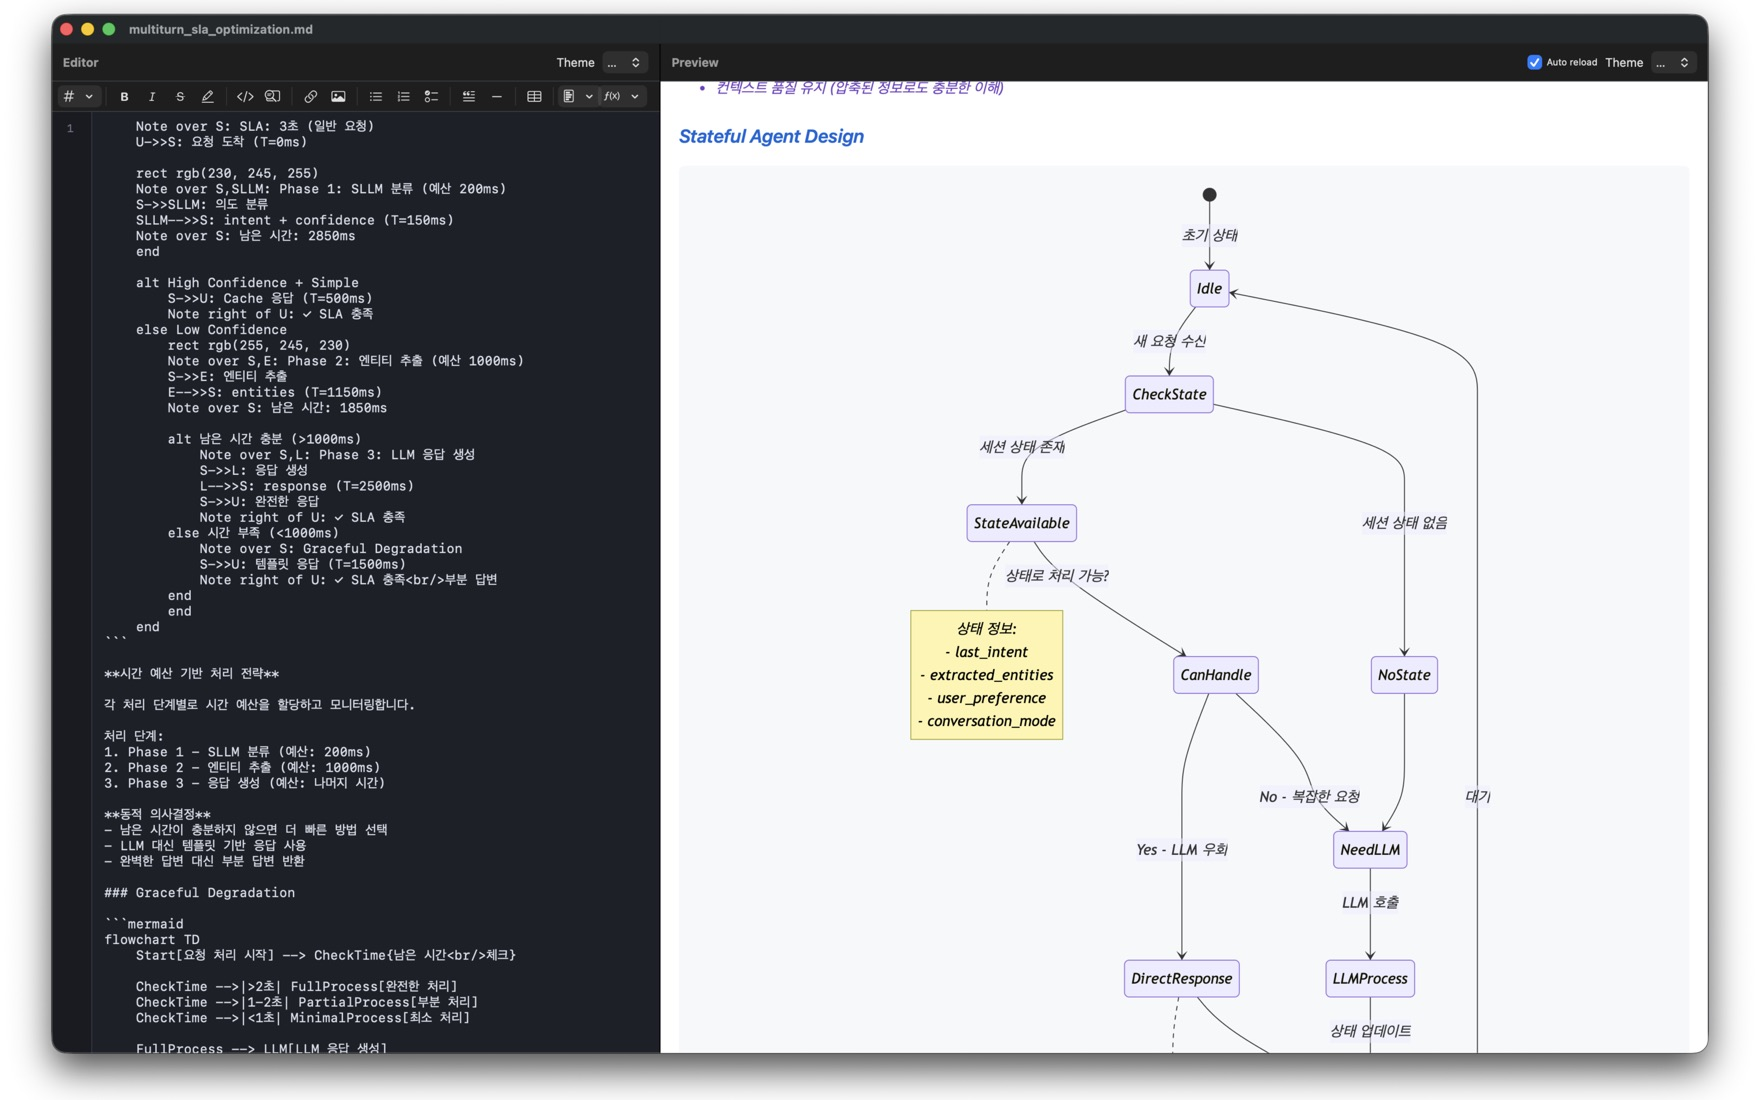
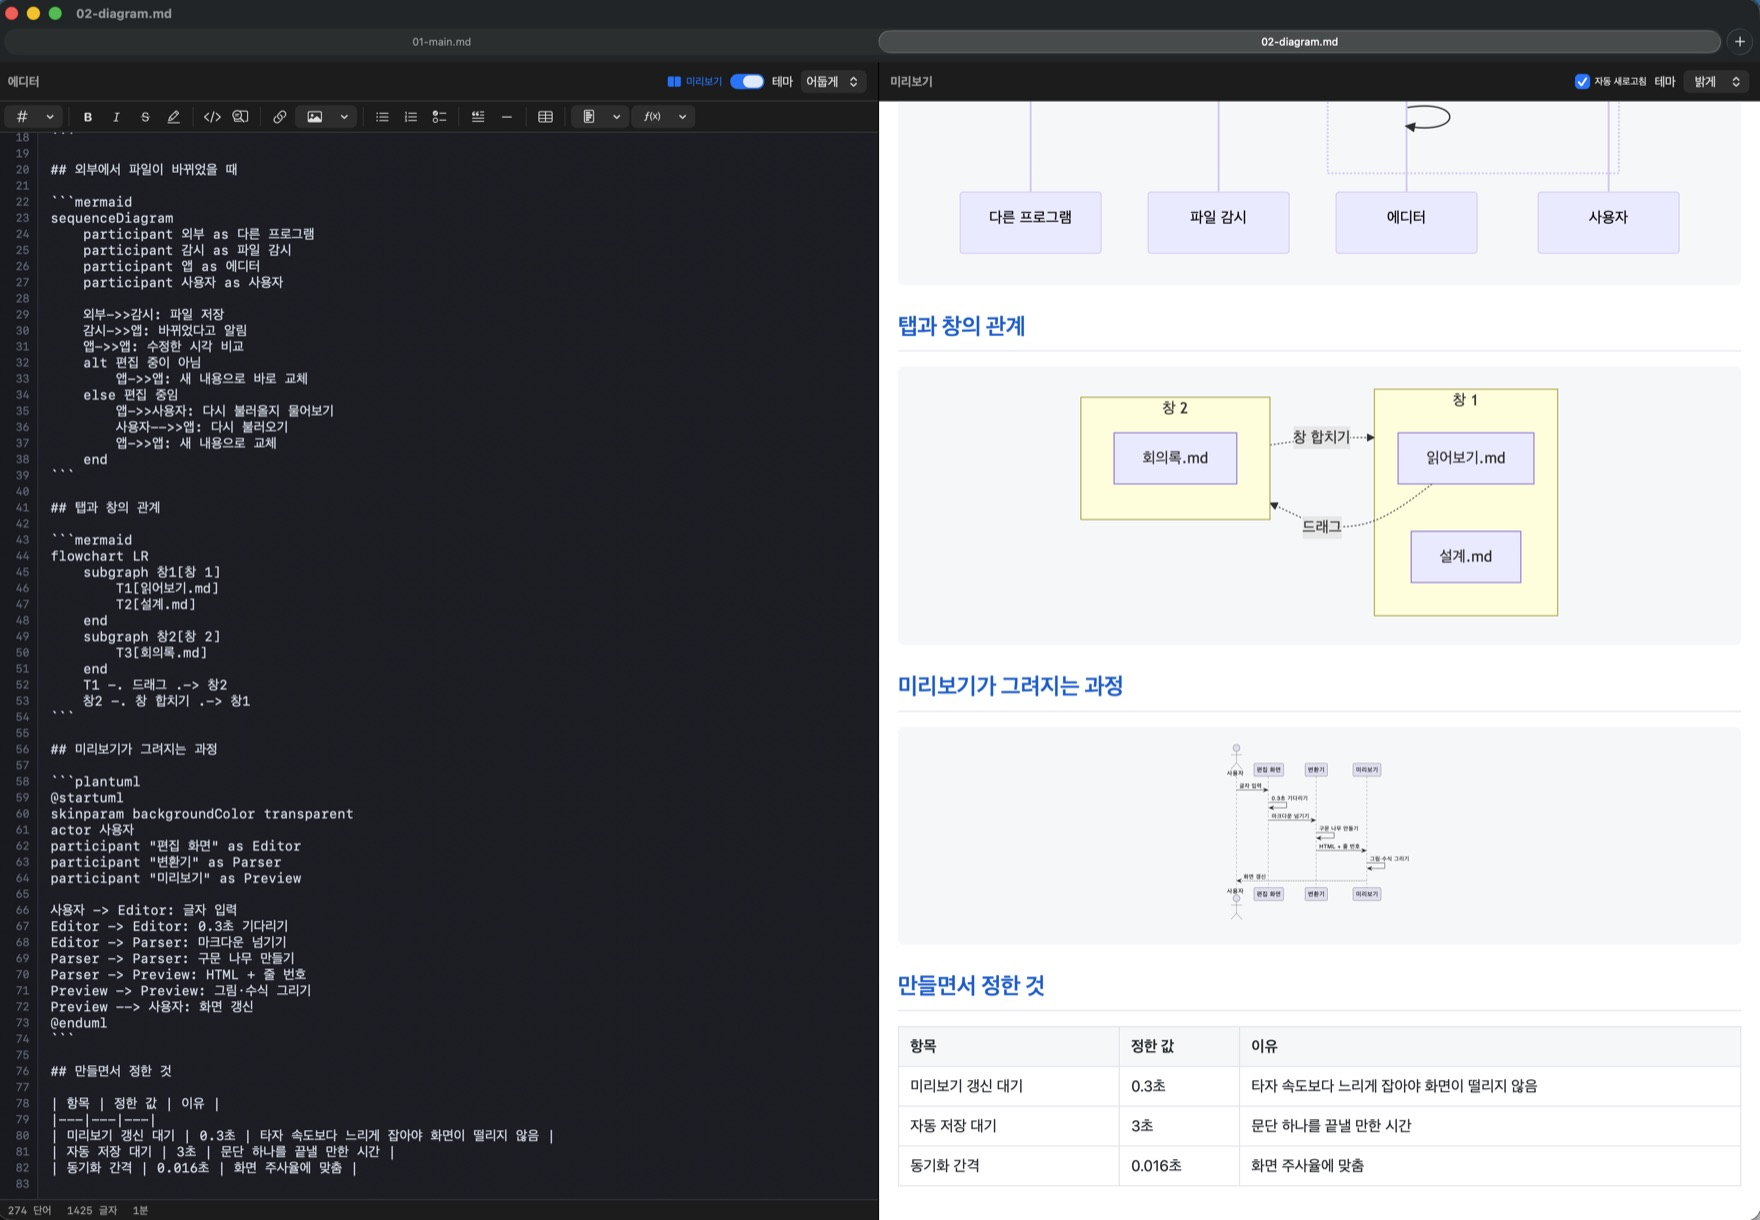
[Docs] 스크린샷 샘플 문서 추가 + 랜딩 화면 사진 교체
- samples/: 스크린샷용 마크다운 3종(본문·다이어그램·수식)과 원본 캡처 3장
- 랜딩 화면 사진을 새 캡처로 교체 (1760x1220, 원본 3714x2576 비율 유지)
- 이미지 width/height 속성을 실제 비율에 맞춰 갱신
- 바뀐 화면에 맞게 대체 텍스트와 설명 문구 수정

diff --git a/worker/src/content.ts b/worker/src/content.ts
@@ -111,7 +111,7 @@ export const KO: Copy = {
 	badgeBig: "App Store",
 	heroMeta: "무료 · macOS 13(Ventura) 이상 · Apple Silicon과 Intel 모두 지원",
 	heroShotAlt:
-		"MarkChartEditor 화면: 왼쪽 마크다운 편집 화면과 오른쪽 미리보기에 Mermaid 순서도, PlantUML 다이어그램, 표, 체크리스트가 그려진 모습",
+		"MarkChartEditor 화면: 왼쪽 어두운 편집 화면과 오른쪽 밝은 미리보기에 제목, 체크리스트, Swift 코드 블록이 나란히 보이는 모습",
 
 	featBadge: "core features",
 	featTitle: "글 쓰는 흐름을 끊지 않습니다",
@@ -155,15 +155,15 @@ export const KO: Copy = {
 	shots: [
 		{
 			src: "/assets/shot-diagram.jpg",
-			alt: "왼쪽 편집 화면의 Mermaid 코드가 오른쪽 미리보기에서 상태 흐름도로 그려진 모습",
+			alt: "왼쪽 편집 화면의 Mermaid·PlantUML 코드가 오른쪽 미리보기에서 순서도와 시퀀스 다이어그램으로 그려진 모습",
 			title: "쓰면 바로 그림이 됩니다",
 			body: "코드 블록에 mermaid나 plantuml이라고 적으면 미리보기에서 그림으로 바뀝니다. 한글 라벨도 그대로 나옵니다.",
 		},
 		{
 			src: "/assets/shot-tabs.jpg",
-			alt: "여러 창을 겹쳐 띄우고 밝은 테마와 어두운 테마를 함께 쓰는 모습",
+			alt: "문서 세 개를 탭으로 열어 둔 창에서 KaTeX 수식과 숫자 표가 미리보기에 그려진 모습",
 			title: "여러 문서를 나란히",
-			body: "탭으로 모아 두거나 창을 따로 띄워 비교합니다. 마지막에 맞춰 둔 창 크기도 기억합니다.",
+			body: "탭으로 모아 두고 오가며 봅니다. KaTeX 수식과 표도 미리보기에서 그대로 그려집니다.",
 		},
 	],
 
@@ -309,7 +309,7 @@ export const EN: Copy = {
 	badgeBig: "App Store",
 	heroMeta: "Free · macOS 13 (Ventura) or later · Apple Silicon and Intel",
 	heroShotAlt:
-		"MarkChartEditor window showing markdown source on the left and a live preview with a Mermaid flowchart, a PlantUML diagram, a table, and a checklist on the right",
+		"MarkChartEditor window with the dark editor on the left and a light live preview on the right showing headings, a checklist, and a Swift code block",
 
 	featBadge: "core features",
 	featTitle: "Nothing interrupts the writing",
@@ -353,15 +353,15 @@ export const EN: Copy = {
 	shots: [
 		{
 			src: "/assets/shot-diagram.jpg",
-			alt: "Mermaid source on the left rendered as a state flowchart in the preview on the right",
+			alt: "Mermaid and PlantUML source on the left rendered as flowcharts and sequence diagrams in the preview on the right",
 			title: "Type it, see it drawn",
 			body: "Mark a code block as mermaid or plantuml and the preview turns it into a diagram, non-Latin labels included.",
 		},
 		{
 			src: "/assets/shot-tabs.jpg",
-			alt: "Several editor windows layered, one in the light theme and one in the dark theme",
+			alt: "One window with three documents open as tabs, the preview showing KaTeX formulas and a numeric table",
 			title: "Several documents side by side",
-			body: "Keep them in tabs or float separate windows to compare. The app also remembers the window size you last set.",
+			body: "Keep them in tabs and switch as you go. KaTeX formulas and tables render in the preview too.",
 		},
 	],
 

diff --git a/worker/src/render.ts b/worker/src/render.ts
@@ -187,7 +187,7 @@ export function renderLanding(lang: Lang): string {
     ${appStoreBadge(c)}
     <div class="hero-meta">${esc(c.heroMeta)}</div>
     <div class="hero-shot">
-      <img src="/assets/shot-main.jpg" width="1760" height="1142"
+      <img src="/assets/shot-main.jpg" width="1760" height="1220"
            alt="${esc(c.heroShotAlt)}" fetchpriority="high">
     </div>
   </div>
@@ -225,7 +225,7 @@ export function renderLanding(lang: Lang): string {
       ${c.shots
 				.map(
 					(s) => `<figure class="shot">
-        <img src="${s.src}" loading="lazy" width="1760" height="1100" alt="${esc(s.alt)}">
+        <img src="${s.src}" loading="lazy" width="1760" height="1220" alt="${esc(s.alt)}">
         <figcaption class="cap"><h3>${esc(s.title)}</h3><p>${esc(s.body)}</p></figcaption>
       </figure>`,
 				)

diff --git a/samples/01-main.md b/samples/01-main.md
@@ -1,0 +1,81 @@
+# 스크롤 동기화 설계 노트
+
+> 편집 화면과 미리보기가 **같은 줄**을 보게 만드는 것이 목표입니다.
+> 퍼센트가 아니라 소스 줄을 기준으로 맞춥니다.
+
+문서가 길어질수록 "지금 쓰고 있는 문단이 오른쪽 어디쯤인지" 감이 사라집니다.
+비율로 맞추면 그림 하나만 들어가도 두 화면이 어긋나기 시작합니다.
+그래서 줄 번호를 기준점으로 삼았습니다.
+
+## 무엇을 고쳤나
+
+- 미리보기 블록마다 원본 줄 번호를 심어 둡니다
+- 편집 화면이 움직이면 그 줄을 감싸는 두 지점 사이를 계산해 미리보기를 옮깁니다
+- 반대 방향도 같은 방식으로 되돌립니다
+- 스크롤 막대를 손으로 끌 때도 동일하게 동작합니다
+
+### 처리 순서
+
+1. 미리보기를 그릴 때 블록 요소에 줄 번호를 붙인다
+2. 그 목록을 한 번만 모아 배열로 들고 있는다
+3. 스크롤이 생기면 이진 탐색으로 앞뒤 지점을 찾는다
+4. 두 지점 사이를 비례로 나눠 최종 위치를 정한다
+
+## 남은 일
+
+- [x] 휠과 트랙패드 동기화
+- [x] 스크롤 막대 드래그 동기화
+- [x] 이미지가 늦게 불러와질 때 위치 어긋남 방지
+- [ ] 표가 가로로 넘칠 때 위치 보정
+- [ ] 접힌 코드 블록 처리
+
+## 핵심 코드
+
+두 지점 사이를 나누는 부분입니다.
+
+```swift
+func targetY(for line: Double) -> CGFloat {
+    let base = Int(floor(line))
+    let ratio = CGFloat(line - Double(base))
+
+    let top = y(ofLine: base)
+    let next = y(ofLine: base + 1)
+
+    return top + ratio * (next - top)
+}
+```
+
+미리보기 쪽은 브라우저에서 같은 계산을 합니다.
+
+```javascript
+function scrollToLine(line) {
+  const i = anchorIndex(line);
+  const prev = anchors[i];
+  const next = anchors[i + 1];
+  if (!next) return window.scrollTo(0, docTop(prev.el));
+
+  const p = (line - prev.line) / (next.line - prev.line);
+  window.scrollTo(0, docTop(prev.el) + p * (docTop(next.el) - docTop(prev.el)));
+}
+```
+
+## 측정 결과
+
+| 문서 크기 | 이전 방식 | 줄 기준 방식 | 한 번 처리에 걸린 시간 |
+|---|---|---|---|
+| 200줄 | 어긋남 없음 | 어긋남 없음 | 0.4 ms |
+| 2,000줄 | 최대 12줄 | 1줄 이내 | 0.6 ms |
+| 12,000줄 | 최대 90줄 | 1줄 이내 | 0.9 ms |
+| 그림 40장 | 최대 3화면 | 1줄 이내 | 1.1 ms |
+
+`0.016초`마다 한 번만 계산하도록 묶어서, 빠르게 굴려도 밀리지 않습니다.
+
+## 참고
+
+- [CommonMark 규격](https://spec.commonmark.org/)
+- [Apple TextKit 문서](https://developer.apple.com/documentation/uikit/textkit)
+- 관련 논의: `#124`, `#131`
+
+---
+
+*마지막 수정: 2026년 9월*

diff --git a/samples/03-math.md b/samples/03-math.md
@@ -1,0 +1,92 @@
+# 감량 속도와 필요 열량
+
+몸무게 기록에서 하루 목표 열량을 뽑는 계산을 정리했습니다.
+
+## 기초 대사량
+
+성별에 따라 계수만 다릅니다. $W$ 는 몸무게(kg), $H$ 는 키(cm), $A$ 는 나이입니다.
+
+$$
+\mathrm{BMR} = 10W + 6.25H - 5A +
+\begin{cases}
+  +5 & \text{남성} \\
+  -161 & \text{여성}
+\end{cases}
+$$
+
+여기에 활동 계수 $k$ 를 곱하면 하루 소비 열량이 됩니다.
+
+$$
+\mathrm{TDEE} = k \cdot \mathrm{BMR}, \qquad k \in [1.2,\ 1.9]
+$$
+
+## 목표 열량
+
+일주일에 $\Delta$ kg 을 줄이려면, 지방 1kg 을 약 7,700 kcal 로 보고 이렇게 잡습니다.
+
+$$
+E_{\text{목표}} = \mathrm{TDEE} - \frac{7700 \cdot \Delta}{7}
+$$
+
+안전 범위는 $\Delta \le 0.75$ 이고, 어떤 경우에도 $E_{\text{목표}} \ge 1200$ 을 지킵니다.
+
+## 흔들리는 기록 다듬기
+
+몸무게는 하루하루 출렁이므로 지수 이동 평균으로 눌러줍니다.
+
+$$
+S_t = \alpha x_t + (1-\alpha) S_{t-1}, \qquad \alpha = \frac{2}{n+1}
+$$
+
+$n = 7$ 이면 $\alpha \approx 0.25$ 입니다. 아래는 실제로 적용한 값입니다.
+
+| 날짜 | 측정값 (kg) | 평활값 (kg) | 전날 대비 |
+|---|---:|---:|---:|
+| 09-01 | 72.4 | 72.40 | — |
+| 09-02 | 73.1 | 72.58 | +0.18 |
+| 09-03 | 72.0 | 72.43 | −0.15 |
+| 09-04 | 71.8 | 72.27 | −0.16 |
+| 09-05 | 72.6 | 72.35 | +0.08 |
+| 09-06 | 71.5 | 72.14 | −0.21 |
+| 09-07 | 71.3 | 71.93 | −0.21 |
+
+측정값은 1.8kg 을 오르내렸지만 평활값은 0.47kg 만 움직였습니다.
+
+## 계산 코드
+
+```python
+def smooth(values, window=7):
+    alpha = 2 / (window + 1)
+    result, prev = [], values[0]
+    for v in values:
+        prev = alpha * v + (1 - alpha) * prev
+        result.append(round(prev, 2))
+    return result
+
+
+def target_calories(tdee, weekly_loss_kg):
+    deficit = 7700 * weekly_loss_kg / 7
+    return max(1200, round(tdee - deficit))
+```
+
+```sql
+SELECT
+    date,
+    weight_kg,
+    AVG(weight_kg) OVER (
+        ORDER BY date ROWS BETWEEN 6 PRECEDING AND CURRENT ROW
+    ) AS avg_7d
+FROM weight_log
+WHERE user_id = 42
+ORDER BY date DESC
+LIMIT 30;
+```
+
+## 확인할 것
+
+- [x] 성별·나이 계수 검증
+- [x] 최저 열량 하한 적용
+- [ ] 근육량을 따로 받는 경우의 보정식
+- [ ] 정체기 판정 기준 정하기
+
+> 참고: 이 값은 일반적인 추정치입니다. 질환이 있거나 약을 드시는 경우에는 전문의와 상의하세요.

diff --git a/samples/02-diagram.md b/samples/02-diagram.md
@@ -1,0 +1,82 @@
+# 문서 저장 흐름
+
+편집한 내용이 파일로 남기까지 어떤 길을 지나는지 그림으로 정리했습니다.
+
+## 전체 흐름
+
+```mermaid
+flowchart TD
+    A[키 입력] --> B{3초 동안 조용한가}
+    B -- 아니오 --> A
+    B -- 예 --> C[자동 저장 시작]
+    C --> D{파일 경로가 있나}
+    D -- 없음 --> E[저장 위치 묻기]
+    D -- 있음 --> F[디스크에 쓰기]
+    E --> F
+    F --> G[수정한 시각 갱신]
+    G --> H[제목의 별표 지우기]
+```
+
+## 외부에서 파일이 바뀌었을 때
+
+```mermaid
+sequenceDiagram
+    participant 외부 as 다른 프로그램
+    participant 감시 as 파일 감시
+    participant 앱 as 에디터
+    participant 사용자 as 사용자
+
+    외부->>감시: 파일 저장
+    감시->>앱: 바뀌었다고 알림
+    앱->>앱: 수정한 시각 비교
+    alt 편집 중이 아님
+        앱->>앱: 새 내용으로 바로 교체
+    else 편집 중임
+        앱->>사용자: 다시 불러올지 물어보기
+        사용자-->>앱: 다시 불러오기
+        앱->>앱: 새 내용으로 교체
+    end
+```
+
+## 탭과 창의 관계
+
+```mermaid
+flowchart LR
+    subgraph 창1[창 1]
+        T1[읽어보기.md]
+        T2[설계.md]
+    end
+    subgraph 창2[창 2]
+        T3[회의록.md]
+    end
+    T1 -. 드래그 .-> 창2
+    창2 -. 창 합치기 .-> 창1
+```
+
+## 미리보기가 그려지는 과정
+
+```plantuml
+@startuml
+skinparam backgroundColor transparent
+actor 사용자
+participant "편집 화면" as Editor
+participant "변환기" as Parser
+participant "미리보기" as Preview
+
+사용자 -> Editor: 글자 입력
+Editor -> Editor: 0.3초 기다리기
+Editor -> Parser: 마크다운 넘기기
+Parser -> Parser: 구문 나무 만들기
+Parser -> Preview: HTML + 줄 번호
+Preview -> Preview: 그림·수식 그리기
+Preview --> 사용자: 화면 갱신
+@enduml
+```
+
+## 만들면서 정한 것
+
+| 항목 | 정한 값 | 이유 |
+|---|---|---|
+| 미리보기 갱신 대기 | 0.3초 | 타자 속도보다 느리게 잡아야 화면이 떨리지 않음 |
+| 자동 저장 대기 | 3초 | 문단 하나를 끝낼 만한 시간 |
+| 동기화 간격 | 0.016초 | 화면 주사율에 맞춤 |
